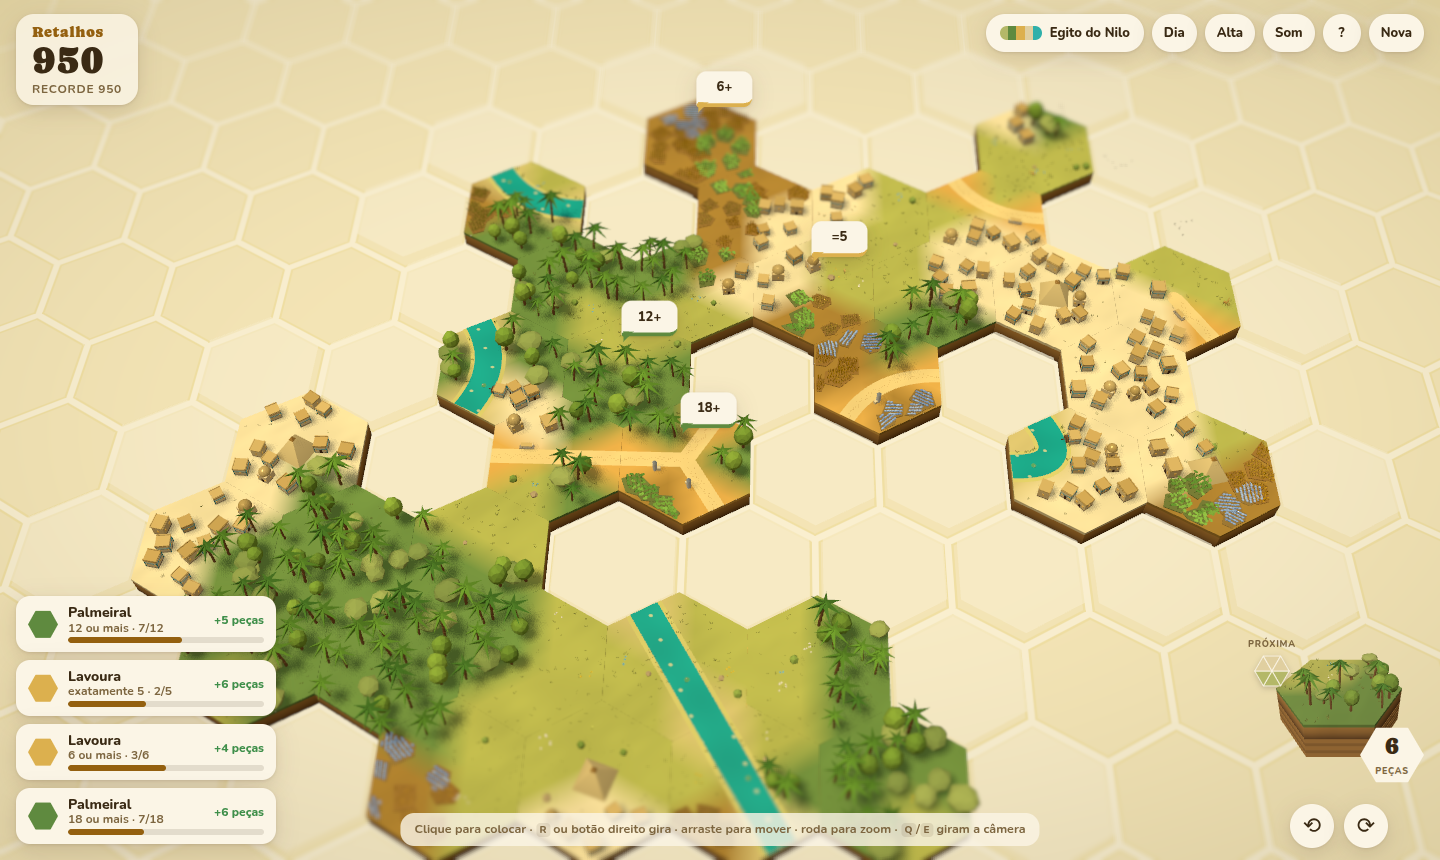
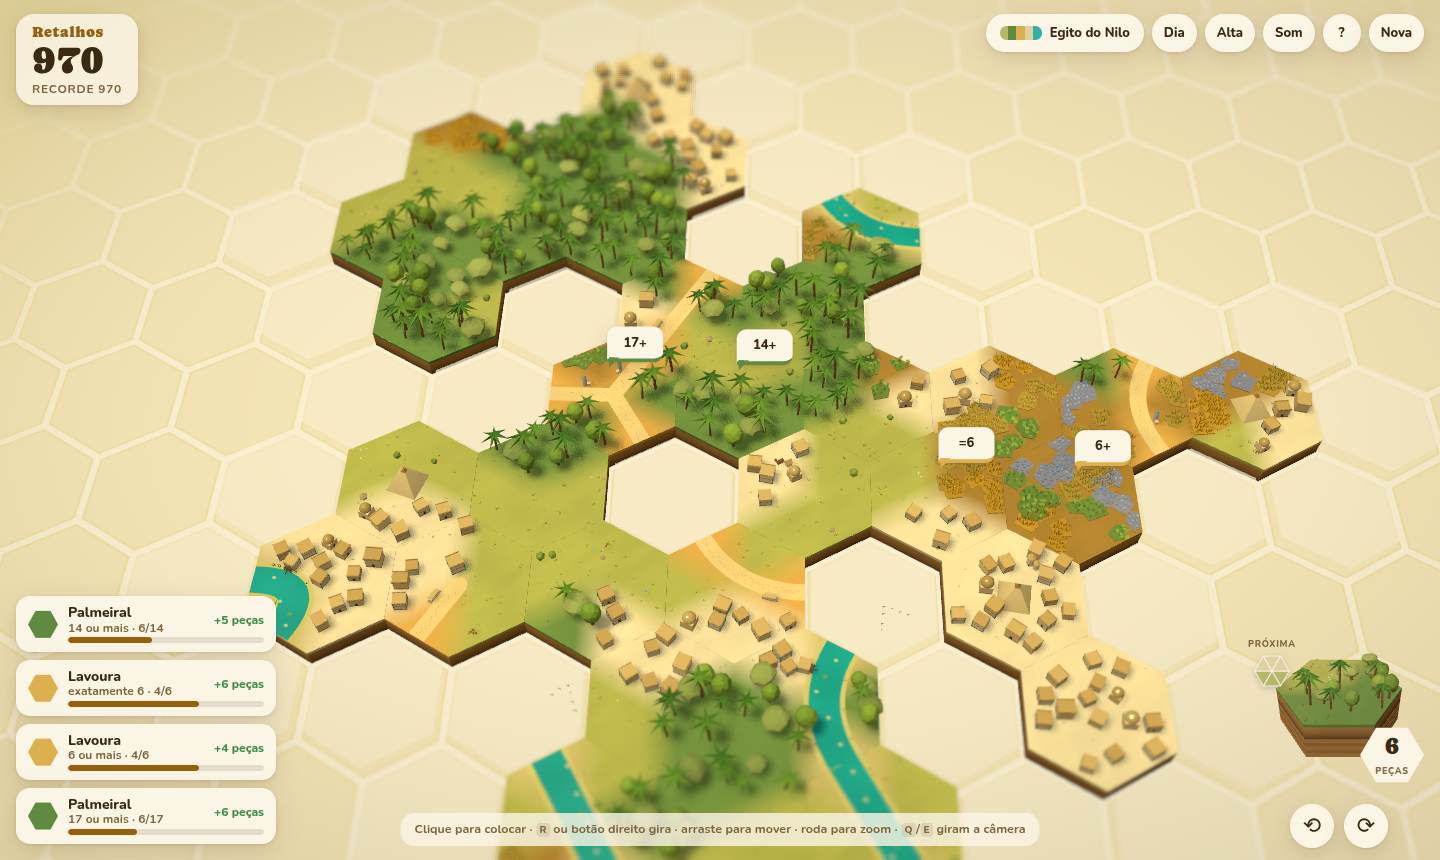
Corrige achados da revisão da v3
- Barcos e trens nascem sobre o traçado (27% ficavam presos numa peça)
- Animais de carroça/caravana com a cor do tema
- Plantas não atravessam construções; moinho de interação voltado ao centro
- __pools() conta as metades de detalhe; ?quality= e ?time= validados
- Aviso ao descartar save de versão anterior; nuvem fora da peça da pilha
- Avisos de interação cancelados em nova partida
- Estudo: resumo da segunda revisão

Claude-Session: https://claude.ai/code/session_01LLbuUXnr1j997yzXR9YYTE

diff --git a/src/main.ts b/src/main.ts
@@ -79,7 +79,9 @@ let moves: MoveRec[] = [];
 let rotSteps = 0;
 let hover: { q: number; r: number } | null = null;
 let best = Number(store.get('best')) || 0;
-let qualityMode: QualityMode = (params.get('quality') as QualityMode) || (store.get('quality') as QualityMode) || 'auto';
+const QUALITIES: QualityMode[] = ['auto', 'high', 'medium', 'low'];
+const pickQ = (v: string | null) => (v && (QUALITIES as string[]).includes(v) ? (v as QualityMode) : null);
+let qualityMode: QualityMode = pickQ(params.get('quality')) ?? pickQ(store.get('quality')) ?? 'auto';
 let gameOverShown = false;
 let overTimer = 0;
 let bestAtStart = 0;
@@ -94,8 +96,11 @@ const rulesFor = (t: Theme): Rules => ({ ...DEFAULT_RULES, ...t.rules });
  * na tela) se o replay não reproduz a partida salva, por exemplo depois de uma
  * atualização do gerador de peças.
  */
+const synTimers: number[] = [];
+
 function newGame(seed = 1 + Math.floor(Math.random() * 1e9), replay: MoveRec[] = [], expectScore?: number): boolean {
   clearTimeout(overTimer);
+  for (const t of synTimers.splice(0)) clearTimeout(t);
   game = new Game(seed, rulesFor(rulesTheme));
   moves = [];
   for (const [q, r, rot] of replay) {
@@ -141,12 +146,16 @@ function validSave(raw: unknown): Save | null {
 
 function readSave(): Save | null {
   let save: Save | null = null;
+  let old = false;
   try {
-    save = validSave(JSON.parse(store.get('save') ?? 'null'));
+    const raw = JSON.parse(store.get('save') ?? 'null') as { v?: unknown } | null;
+    save = validSave(raw);
+    old = !save && typeof raw?.v === 'number' && raw.v < SAVE_VERSION;
   } catch {
     /* save ilegível */
   }
   if (!save) store.set('save', null);
+  if (old) hud.toast('A partida salva vem de uma versão anterior do jogo e foi descartada.');
   return save;
 }
 
@@ -281,10 +290,10 @@ function announce(res: PlaceResult) {
     const a = hexToWorld(res.placed.q, res.placed.r);
     const b = hexToWorld(res.placed.q + dq, res.placed.r + dr);
     const p = world.project((a.x + b.x) / 2, 0.35, (a.z + b.z) / 2);
-    setTimeout(() => {
+    synTimers.push(window.setTimeout(() => {
       hud.floater(p.x, p.y, `${theme.synergy[h.kind]} +${game.rules.synergyPoints}`, 'syn');
       sfx.note(7 + k * 2, 0, 0.5, 0.08);
-    }, 250 + k * 160);
+    }, 250 + k * 160));
   });
   for (const t of res.closed) {
     const p = screenOf(t.q, t.r);
@@ -608,7 +617,7 @@ function cycleTime() {
 timeBtn.addEventListener('click', cycleTime);
 {
   const saved = (params.get('time') ?? store.get('time')) as TimeOfDay | null;
-  if (saved && saved in TIME_LABEL) {
+  if (saved && Object.hasOwn(TIME_LABEL, saved)) {
     world.setTimeOfDay(saved);
     setTimeLabel(saved);
   }
@@ -779,6 +788,7 @@ function start(data: unknown) {
 
 // Idem, escolhendo a jogada com mais interações (para ver as construções).
 (window as unknown as { __ghostSynergy: () => number }).__ghostSynergy = () => {
+  if (!game.current) return 0;
   let best: { q: number; r: number; rot: number; n: number } | null = null;
   for (const k of game.board.frontier) {
     const [q, r] = [(k >> 13) - 4096, (k & 8191) - 4096];

diff --git a/src/render/life.ts b/src/render/life.ts
@@ -139,6 +139,8 @@ export class Life {
   private flocks: Flock[] = [];
   private board: Board | null = null;
   private theme!: Theme;
+  /** Cor dos animais de carroça/caravana (as partes de locomotiva ignoram a tinta). */
+  private beast = new THREE.Color(1, 1, 1);
   private time = 0;
 
   constructor(
@@ -156,6 +158,7 @@ export class Life {
     this.movers = [];
     this.flocks = [];
     this.theme = theme;
+    this.beast.set(theme.animals.colors[0]);
   }
 
   private pool(key: string, shadows = true) {
@@ -219,10 +222,14 @@ export class Life {
     const tile = net[Math.floor(Math.random() * net.length)];
     const exits = strictEdges(tile, terr);
     const b = exits[Math.floor(Math.random() * exits.length)];
+    // Peça com 2+ bordas: nasce sobre o traçado (borda→borda). Nascer no centro deixaria o
+    // mover fora da curva e, se `b` fosse uma borda aberta, preso indo e voltando.
+    const others = exits.filter((e) => e !== b);
+    const a = others.length ? others[Math.floor(Math.random() * others.length)] : -1;
     const th = this.theme;
     const speed = boat ? 0.16 + Math.random() * 0.06 : th.vehicle === 'maglev' ? 0.7 : th.vehicle === 'steam' ? 0.42 : 0.17;
     const { x, z } = hexToWorld(tile.q, tile.r);
-    const m: Mover = { boat, tile, a: -1, b, t: Math.random() * 0.5, len: 0.87, speed, wait: 0, trail: [], x, z, heading: 0 };
+    const m: Mover = { boat, tile, a, b, t: Math.random() * 0.5, len: a < 0 ? 0.87 : Math.abs(a - b) === 3 ? 1.73 : 1.45, speed, wait: 0, trail: [], x, z, heading: 0 };
     this.movers.push(m);
   }
 
@@ -365,14 +372,14 @@ export class Life {
       const bounce = th.vehicle === 'caravan' ? Math.abs(Math.sin(this.time * 7)) * 0.004 : 0;
       q4.setFromAxisAngle(UP, -m.heading);
       m4.compose(v3.set(m.x, roadY + bounce, m.z), q4, s3.setScalar(1));
-      head?.set(hi++, m4);
+      head?.set(hi++, m4, this.beast);
       for (let k = 1; k <= cars; k++) {
         const p = trailAt(m.trail, spacing * k);
         if (!p) break;
         q4.setFromAxisAngle(UP, -p.heading);
         const b2 = th.vehicle === 'caravan' ? Math.abs(Math.sin(this.time * 7 + k)) * 0.004 : 0;
         m4.compose(v3.set(p.x, roadY + b2, p.z), q4, s3.setScalar(1));
-        car?.set(ci++, m4);
+        car?.set(ci++, m4, this.beast);
       }
     }
     boats?.commit(bi);

diff --git a/src/render/tileBuilder.ts b/src/render/tileBuilder.ts
@@ -423,7 +423,7 @@ export function buildTile(edges: readonly T[], seed: number, theme: Theme, opts:
       for (let a = 0; a < 3; a++) D('animal', x + (rng() - 0.5) * 0.1, 0, z + (rng() - 0.5) * 0.1, rng() * 6, randRange(rng, 0.9, 1.15), vary(rng, tc(pick(rng, theme.animals.colors)), 0.05), 'wander');
     } else if (s.kind === 'mill') {
       const sc = theme.mill === 'windmill' ? 1.1 : 1.2;
-      const face = yawTo(-mx, -mz); // pás voltadas para o centro da peça
+      const face = Math.atan2(-mx, -mz); // +z local (porta e pás) voltado para o centro da peça
       D('mill', x, 0, z, face, sc, WHITE);
       if (theme.mill === 'windmill') {
         // Cubo das pás: à frente do capuz, na direção +z local do moinho.
@@ -558,7 +558,7 @@ export function buildTile(edges: readonly T[], seed: number, theme: Theme, opts:
         for (let t = -rad + ((row % 2) * step) / 2; t <= rad; t += step) {
           const x = cx + ux * t - uz * o + (rng() - 0.5) * step * 0.25;
           const z = cz + uz * t + ux * o + (rng() - 0.5) * step * 0.25;
-          if (!insidePoly(x, z, inner)) continue;
+          if (!insidePoly(x, z, inner) || !free(x, z, 0)) continue; // não planta dentro de construções
           const s = randRange(rng, L.scale[0], L.scale[1]) * (isLush ? 1.12 : 1);
           let c = rowCol ?? (rng() < 0.7 ? base : tc(pick(rng, crop.colors)));
           c = vary(rng, c, 0.06);

diff --git a/src/render/world.ts b/src/render/world.ts
@@ -902,7 +902,10 @@ export class World {
   /** Custo por kit: instâncias e triângulos (para achar o que pesa). */
   poolReport() {
     return [...this.pools.entries()]
-      .map(([k, p]) => ({ k, n: p.count, tris: (p.count * (this.lib.geo(k)?.attributes.position.count ?? 0)) / 3, shadow: p.mesh.castShadow }))
+      .map(([k, p]) => {
+        const base = k.endsWith('~') ? k.slice(0, -1) : k;
+        return { k, n: p.count, tris: (p.count * (this.lib.geo(base)?.attributes.position.count ?? 0)) / 3, shadow: p.mesh.castShadow };
+      })
       .sort((a, b) => b.tris - a.tris);
   }
 
@@ -1069,10 +1072,13 @@ export class World {
     r.autoClear = false;
     r.clearDepth();
     // A pilha usa sempre luz de dia, para a peça da vez ficar legível.
-    const night = this.lib.uniforms.uNight.value;
-    this.lib.uniforms.uNight.value = 0;
+    const u = this.lib.uniforms;
+    const night = u.uNight.value, clouds = u.uClouds.value;
+    u.uNight.value = 0;
+    u.uClouds.value = 0;
     r.render(this.previewScene, this.previewCam);
-    this.lib.uniforms.uNight.value = night;
+    u.uNight.value = night;
+    u.uClouds.value = clouds;
     r.autoClear = auto;
     r.setScissorTest(false);
     r.setViewport(0, 0, this.size.x, this.size.y);

diff --git a/docs/VIABILIDADE.md b/docs/VIABILIDADE.md
@@ -347,6 +347,25 @@ Um segundo agente (Sonnet) revisou o código sem editá-lo, escreveu testes pró
 
 Também entraram: confirmação antes de descartar uma partida em andamento, qualidade Auto começando em Média em telas de toque, alvo de pós-processamento compatível com GPUs sem suporte a render em ponto flutuante e laço de quadros protegido contra exceções.
 
+### Segunda revisão (v3)
+
+O Sonnet revisou a v3 com a mesma abordagem:
+- **Cobertura:** 14 temas × qualidade alta e baixa, sem erros de console; os 7 materiais com shaders customizados compilam com e sem sombras.
+- **Rotação das interações:** 1.221 posições reais, 0 divergências entre a regra, as marcas douradas e a construção desenhada.
+- **Núcleo:** 1,28 milhão de posições candidatas conferidas contra um oráculo independente.
+- **Memória de GPU:** nenhum vazamento em trocas repetidas de tema, qualidade e hora do dia.
+
+Defeito relevante encontrado e corrigido: **27% dos barcos e trens ficavam presos** indo e voltando entre o centro de uma peça e uma borda aberta, às vezes fora do rio. Agora eles nascem sobre o traçado. Também foram corrigidos:
+- cor dos animais de carroça e caravana;
+- plantas atravessando cercas e colmeias;
+- moinho de interação virado de lado;
+- validação de `?quality=` e `?time=`;
+- aviso ao descartar salvamentos antigos;
+- sombra de nuvem pulsando na peça da pilha;
+- avisos de interação que sobreviviam a uma partida nova.
+
+Nota de balanceamento: como o encaixe perfeito exige todas as bordas iguais, uma interação (+5) na peça tira o bônus de perfeito (+20). É uma troca deliberada, a testar com jogadores.
+
 ## Apêndice B: o que as simulações dizem sobre o balanceamento
 
 Nas 3.000 partidas simuladas, jogadores automáticos que **não** perseguem missões (guloso, aleatório e "pior jogada") duraram em média **40 a 50 peças** e cumpriram **cerca de 0,5 missão por partida**. Um humano que mira as missões vai mais longe. Mesmo assim, é um sinal de que as recompensas atuais (+4 a +6 peças por missão, +1 por peça cercada) talvez sejam avaras para partidas longas e relaxantes como as do gênero. Esse é o primeiro ajuste a testar com jogadores reais, e hoje basta mudar números em `Rules`.
